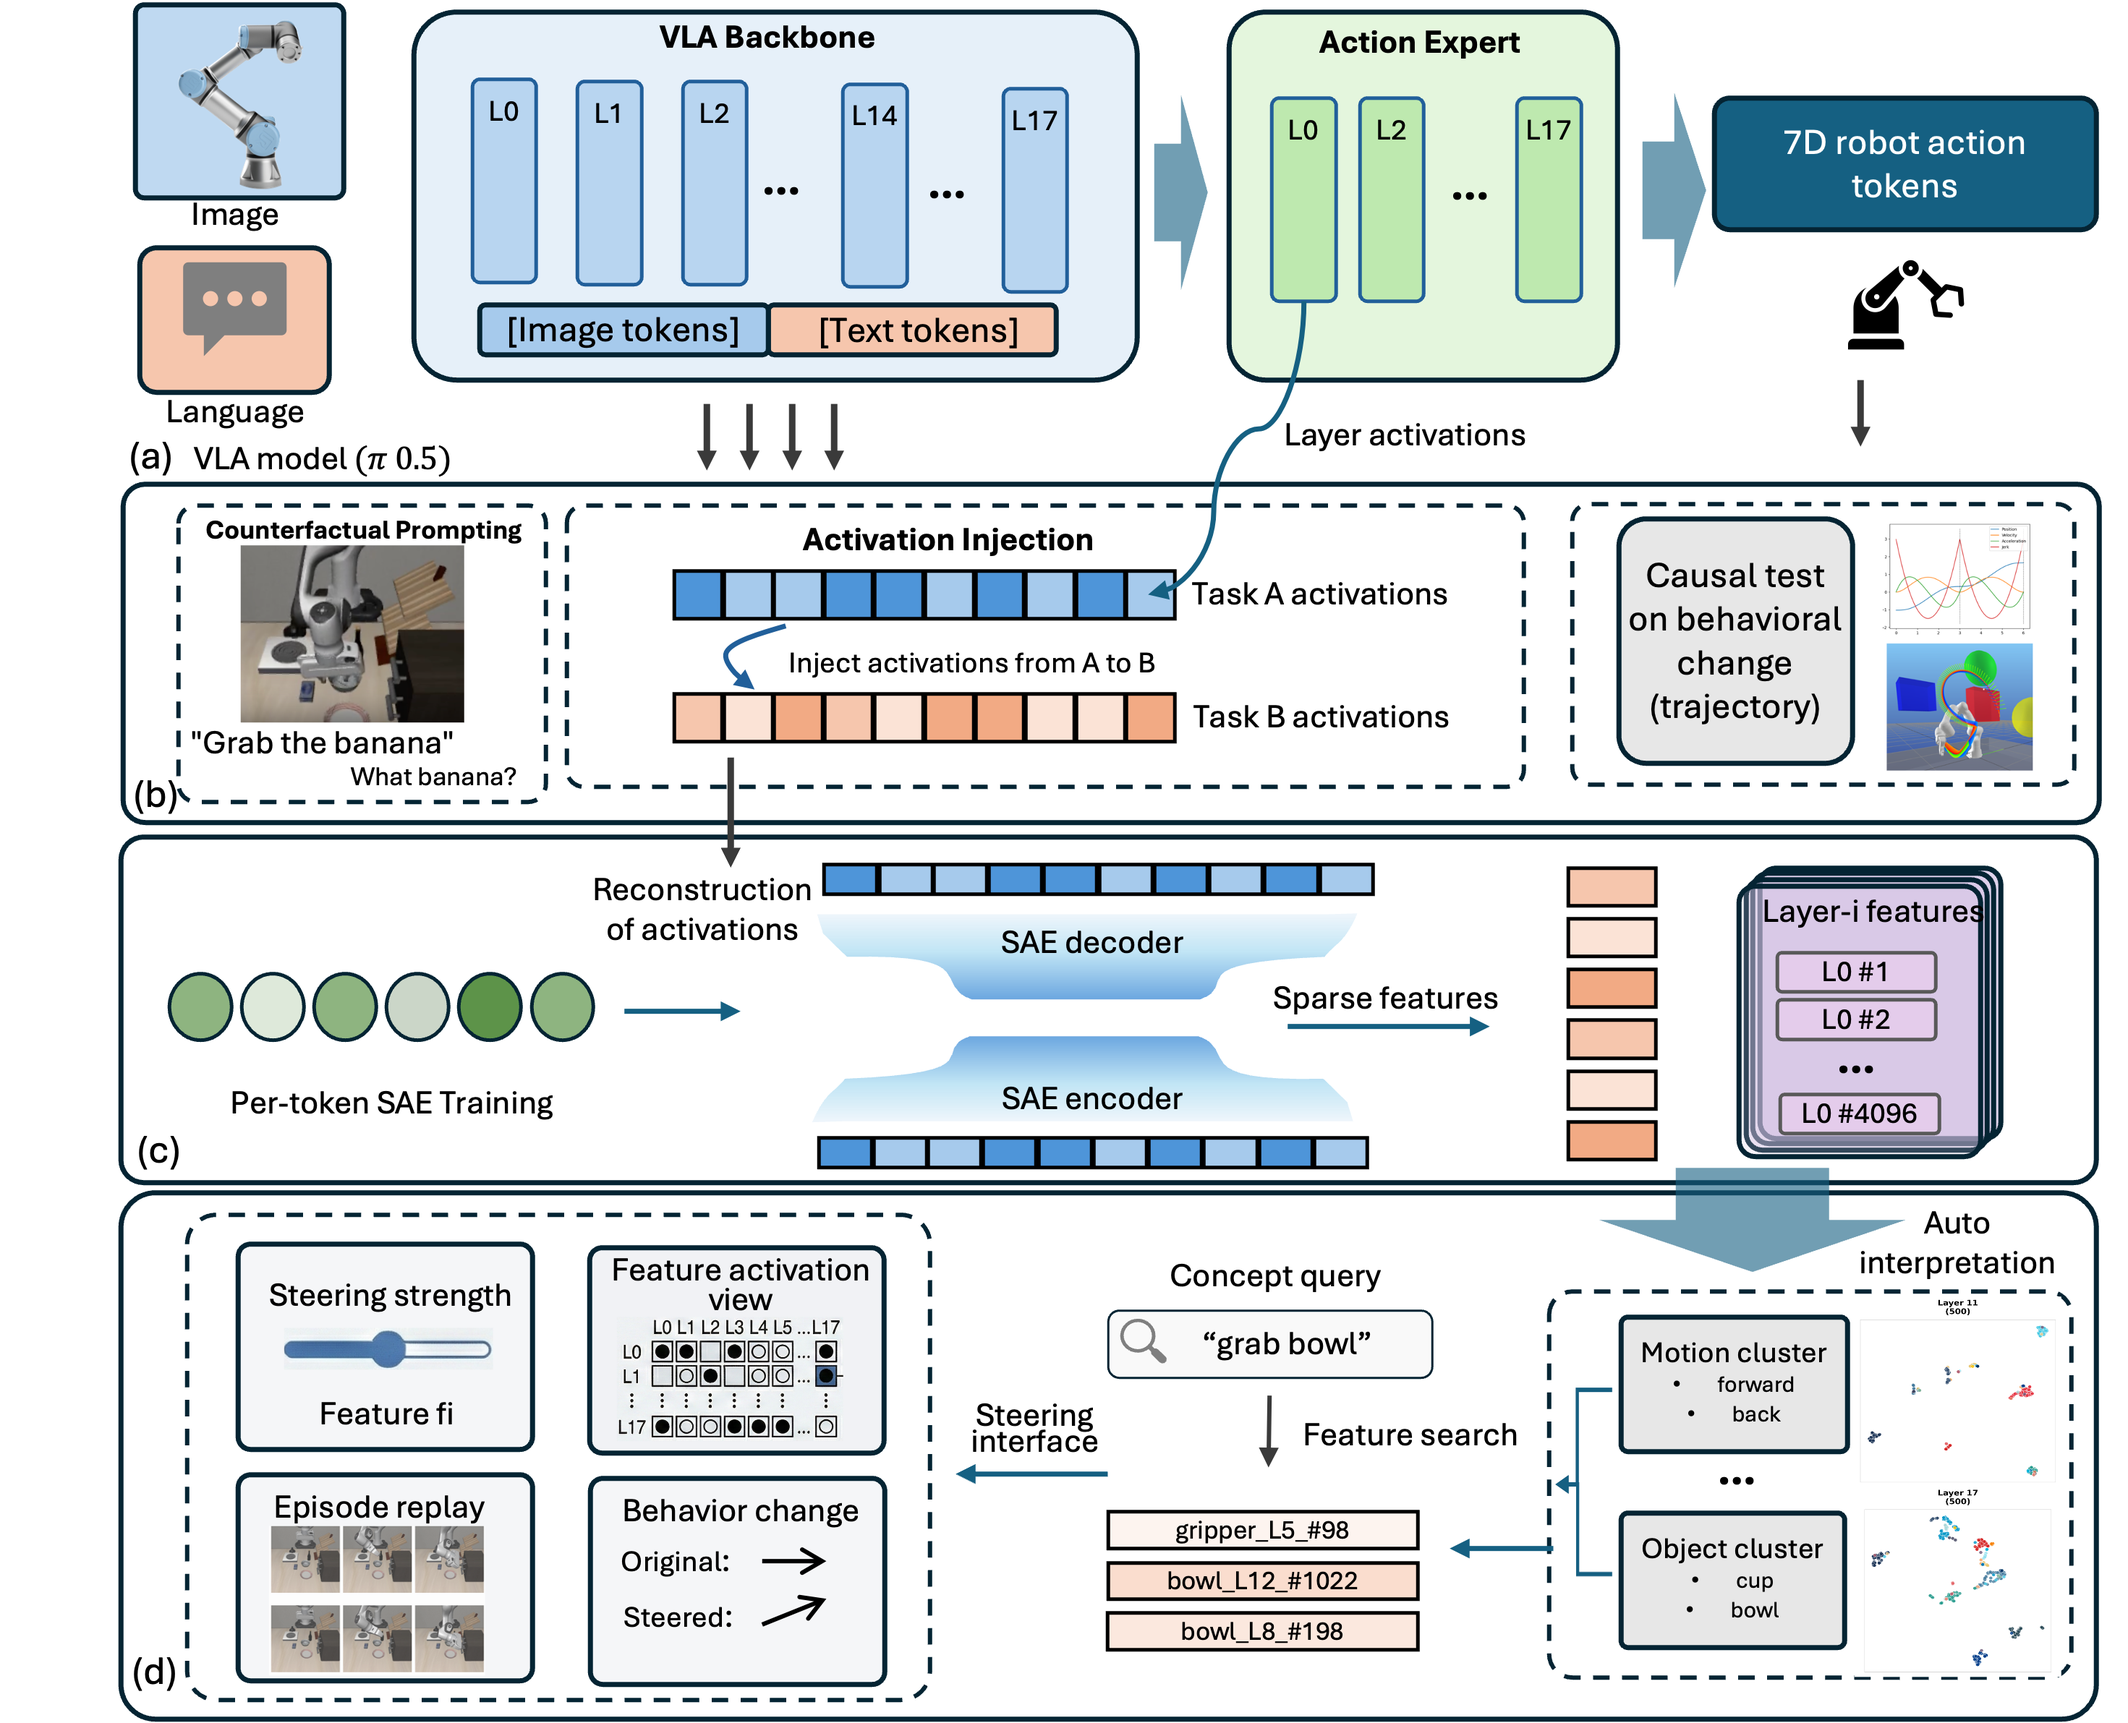
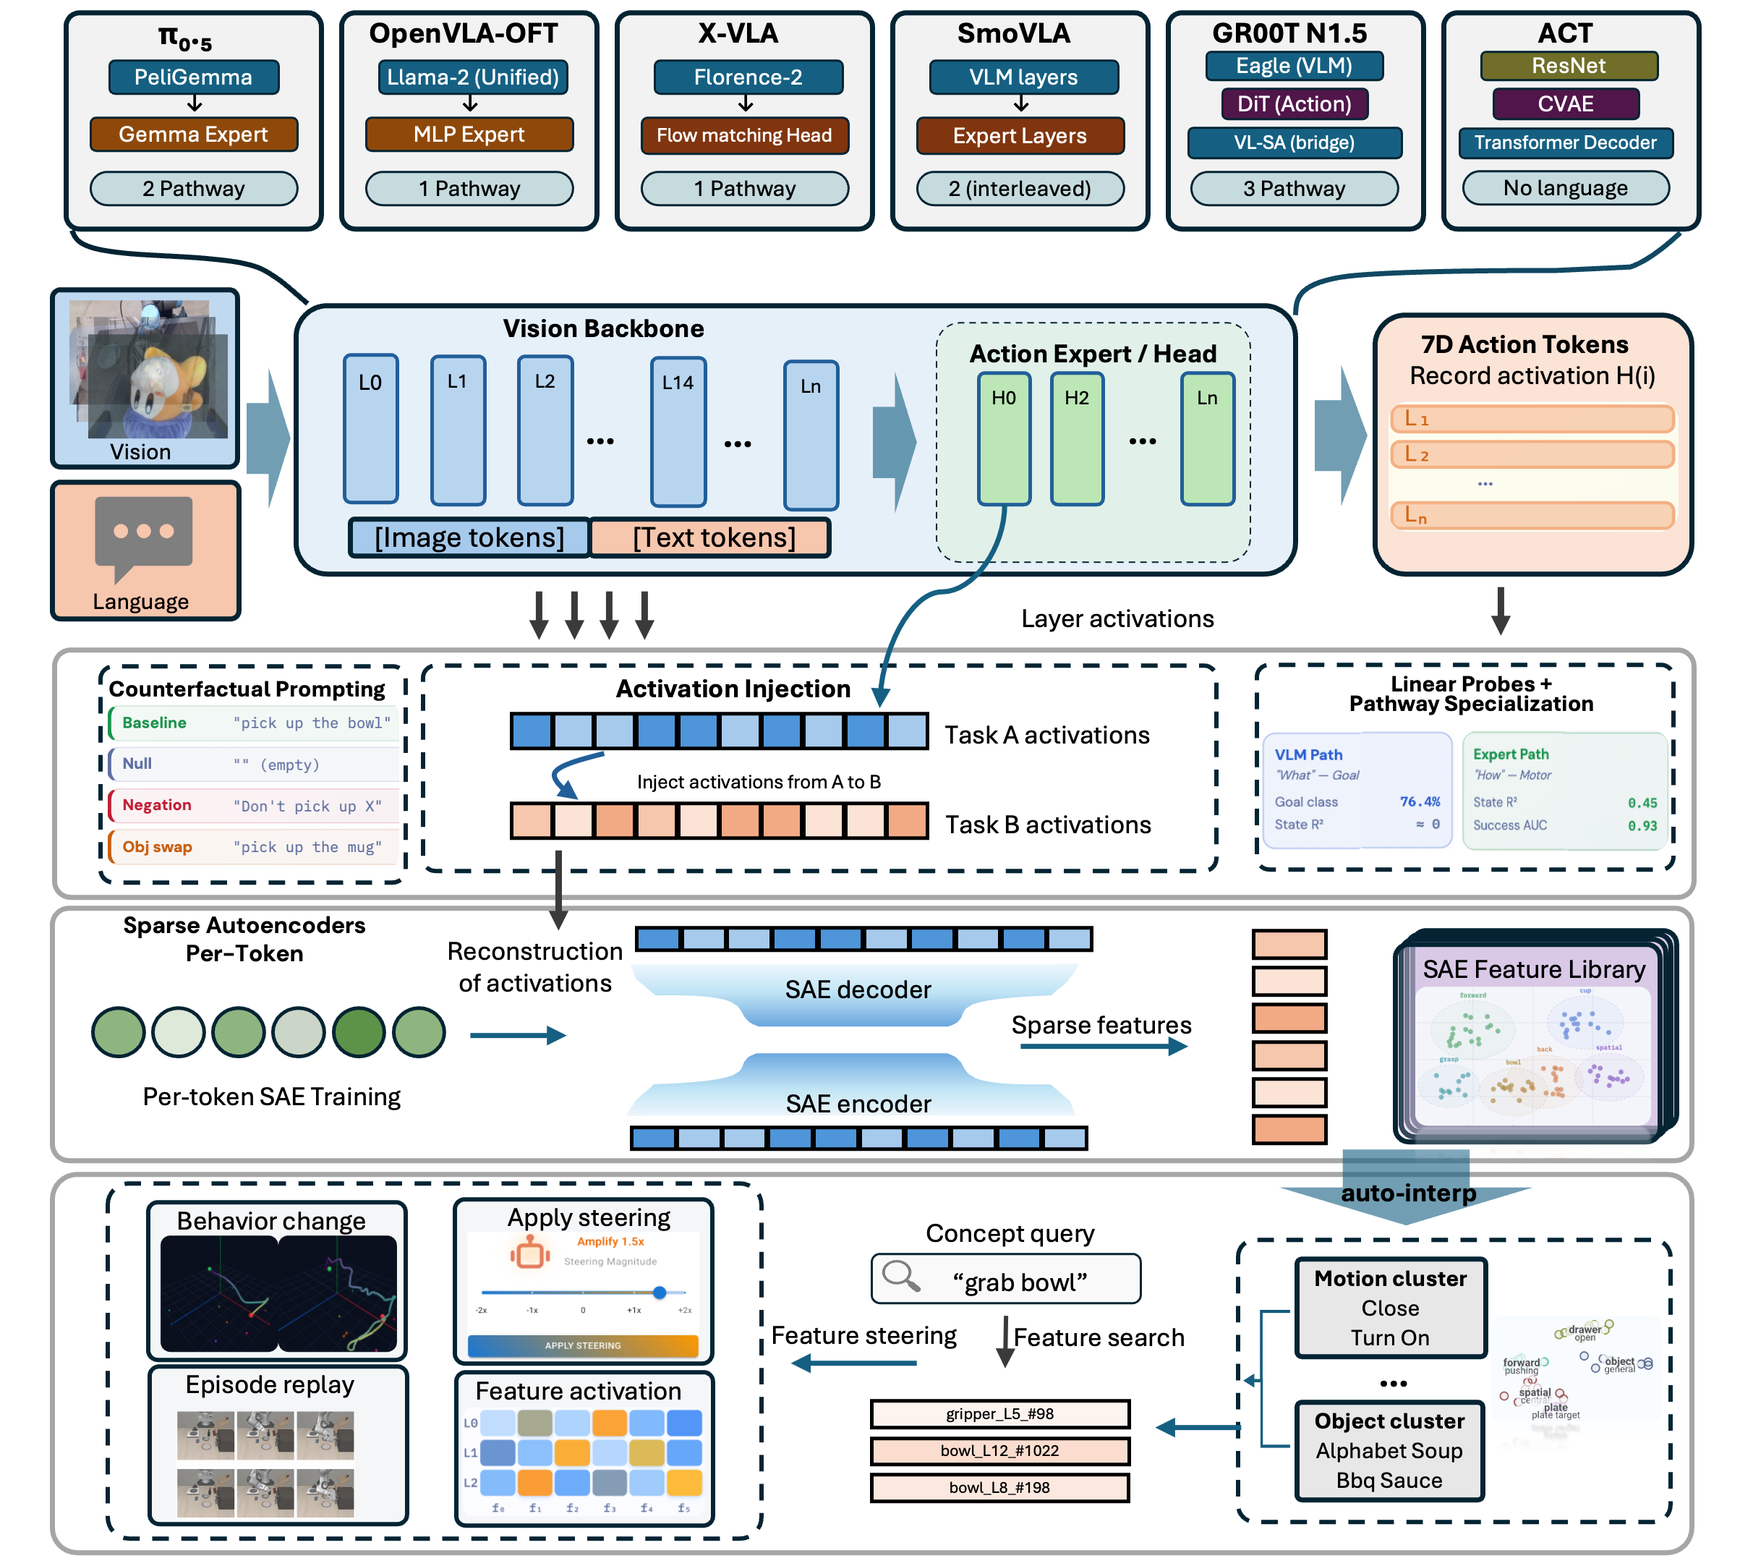
Update methodology diagram

diff --git a/index.html b/index.html
@@ -625,7 +625,7 @@
             <div class="atlas-feature-icon"><i class="fas fa-video"></i></div>
             <div>
               <h5>Video Library</h5>
-              <p>200,000+ rollout videos filterable by model, suite, experiment type, and outcome</p>
+              <p>308,000+  rollout videos filterable by model, suite, experiment type, and outcome</p>
             </div>
           </div>
 
